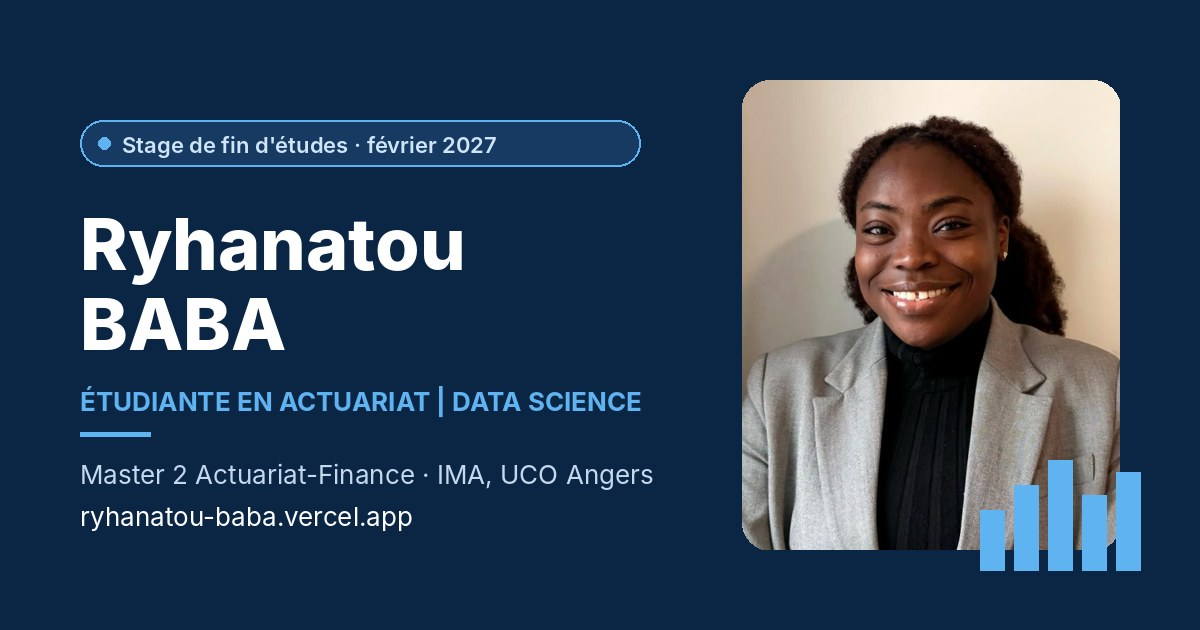
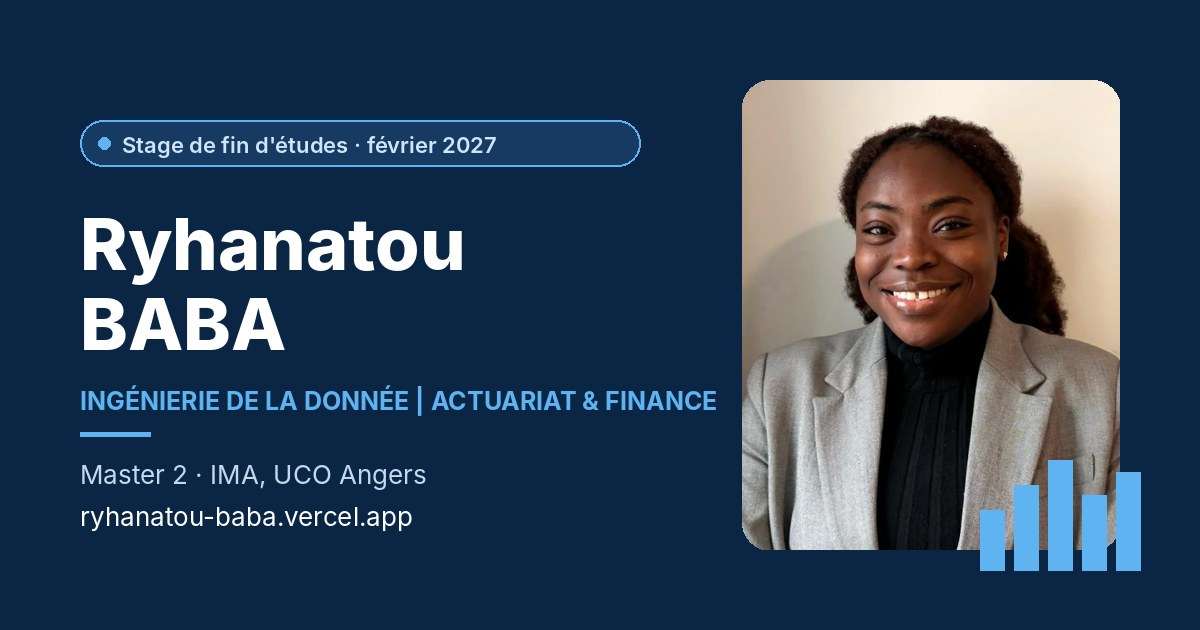
Titre aligné sur le Master : Ingénierie de la donnée | Actuariat & Finance
Claude-Session: https://claude.ai/code/session_01TqVL5D3QgBDtKTATnNGoMV

Changed region(s): [[0.0617, 0.6032, 0.6167, 0.6635], [0.1542, 0.7238, 0.555, 0.7841]]

diff --git a/index.html b/index.html
@@ -4,10 +4,10 @@
 <meta charset="utf-8">
 <meta name="viewport" content="width=device-width, initial-scale=1">
 <title>Ryhanatou BABA – Portfolio</title>
-<meta name="description" content="Portfolio de Ryhanatou BABA, étudiante en actuariat et data science : Master 2 Ingénierie de la donnée, parcours Actuariat-Finance. Disponible pour un stage dès février 2027.">
+<meta name="description" content="Portfolio de Ryhanatou BABA : Master 2 Ingénierie de la donnée, parcours Actuariat-Finance. Disponible pour un stage dès février 2027.">
 <meta property="og:type" content="website">
 <meta property="og:url" content="https://ryhanatou-baba.vercel.app/">
-<meta property="og:title" content="Ryhanatou BABA – Étudiante en actuariat | Data Science">
+<meta property="og:title" content="Ryhanatou BABA – Ingénierie de la donnée | Actuariat &amp; Finance">
 <meta property="og:description" content="Master 2 Actuariat-Finance (IMA, UCO Angers). Disponible pour un stage de fin d'études de 4 à 6 mois à partir de février 2027.">
 <meta property="og:image" content="https://ryhanatou-baba.vercel.app/og-image.jpg">
 <meta property="og:image:width" content="1200">
@@ -269,7 +269,7 @@ button.lang-switch { background: none; cursor: pointer; font-family: var(--font)
       <div>
         <span class="status">Disponible pour un stage de fin d'études · février 2027 · 4 à 6 mois</span>
         <h1>Ryhanatou BABA</h1>
-        <p class="role">Étudiante en actuariat | Data Science</p>
+        <p class="role">Ingénierie de la donnée | Actuariat &amp; Finance</p>
         <p class="sub">Master 2 Ingénierie de la donnée, parcours Actuariat-Finance · IMA, UCO Angers</p>
         <div class="bar"></div>
         <p class="quote">« Transformer les données en décisions stratégiques, optimiser les risques et créer de la valeur grâce à l'analyse quantitative. »</p>
@@ -546,7 +546,7 @@ button.lang-switch { background: none; cursor: pointer; font-family: var(--font)
       <div>
         <span class="status">Available for a final-year internship · February 2027 · 4 to 6 months</span>
         <h1>Ryhanatou BABA</h1>
-        <p class="role">Actuarial Science Student | Data Science</p>
+        <p class="role">Data Engineering | Actuarial Science &amp; Finance</p>
         <p class="sub">Master's degree (2nd year) in Data Engineering, Actuarial Science &amp; Finance track · IMA, UCO Angers</p>
         <div class="bar"></div>
         <p class="quote">“Turning data into strategic decisions, optimising risk and creating value through quantitative analysis.”</p>
